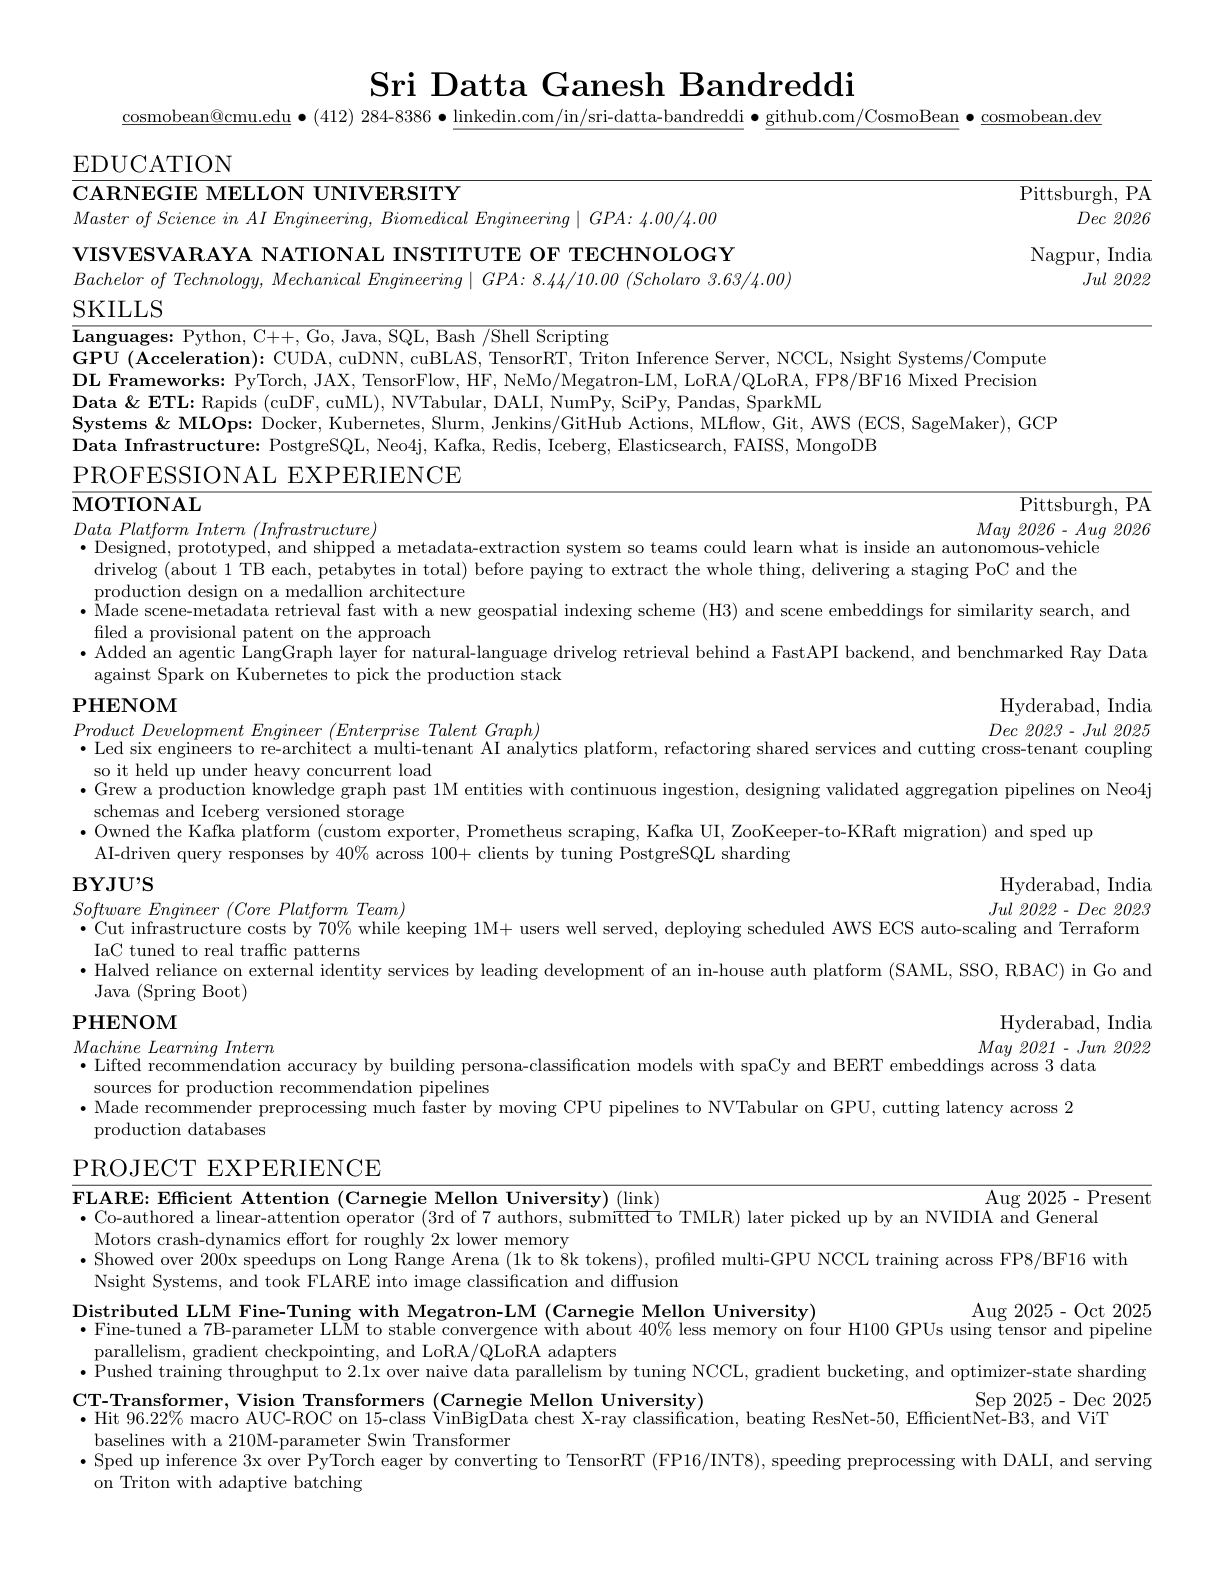
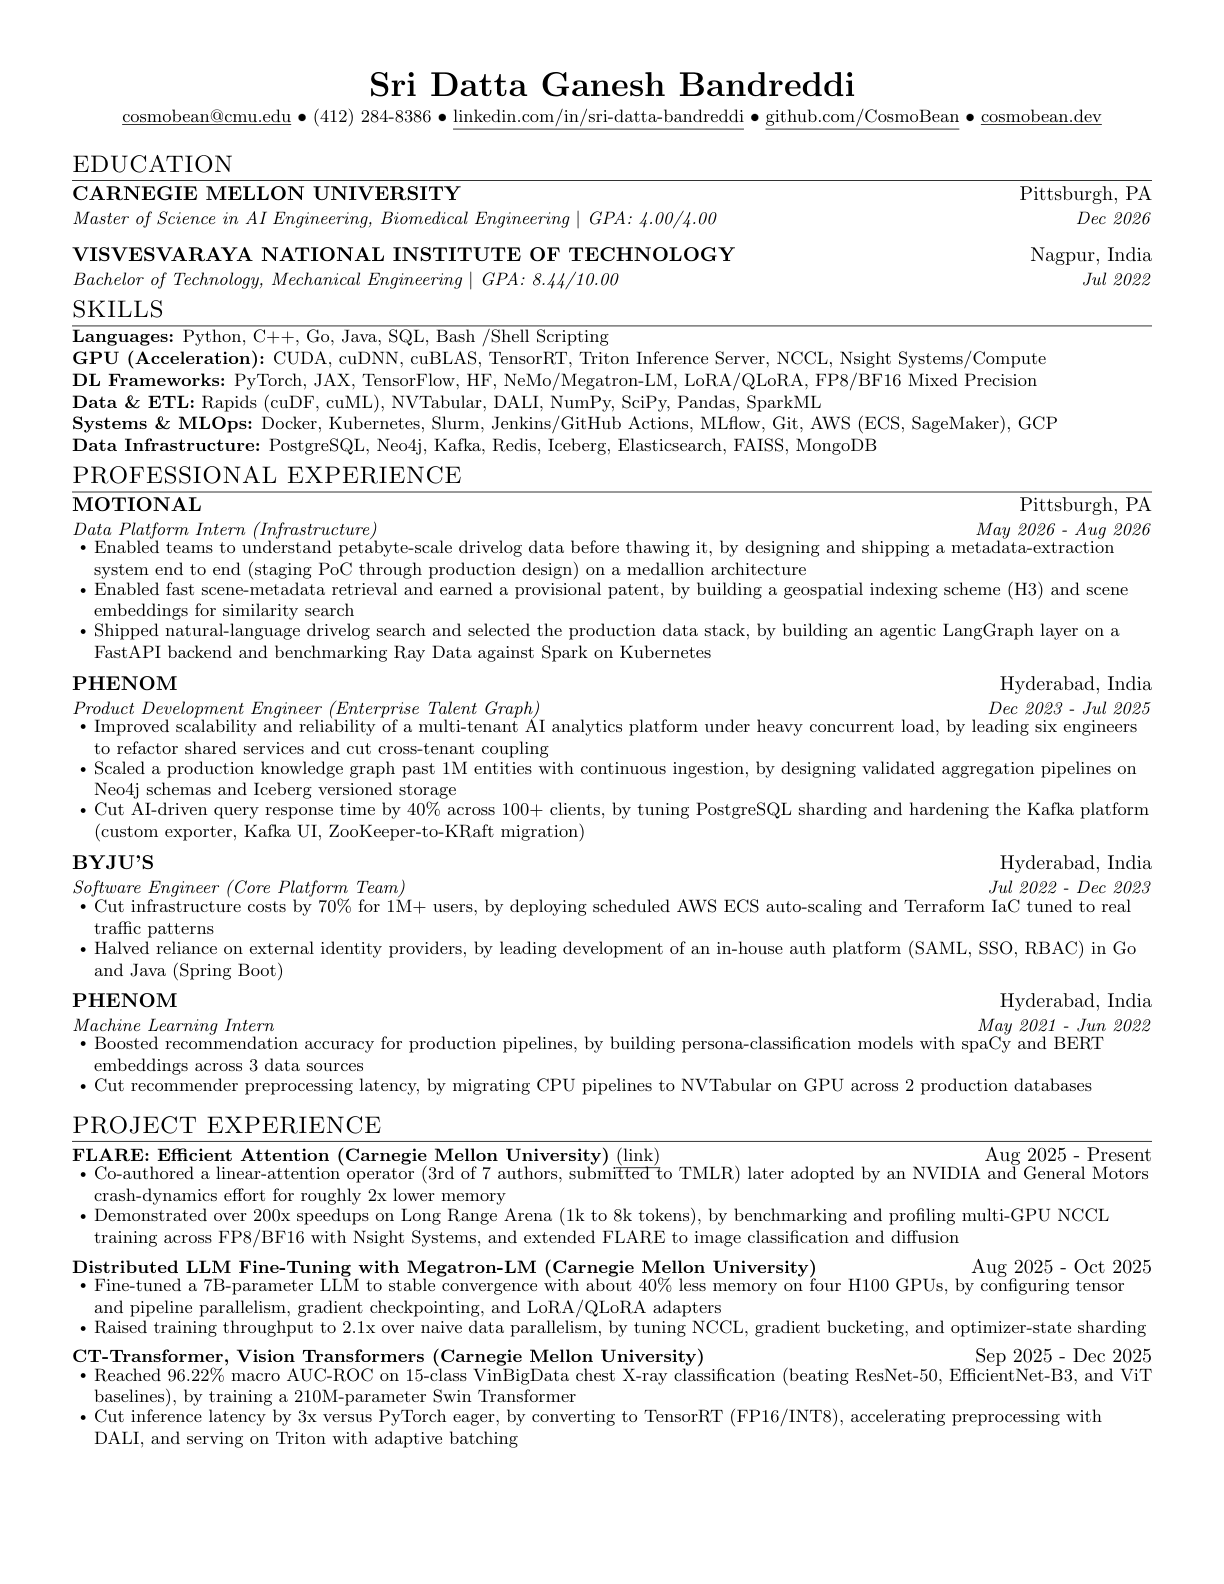
refine: XYZ-format bullets, drop Scholaro GPA, Motional petabyte-scale/thaw wording

Changed region(s): [[0.0621, 0.3403, 0.9314, 0.928], [0.5899, 0.1547, 0.6209, 0.1856]]

diff --git a/resume.tex b/resume.tex
@@ -145,7 +145,7 @@
     \vspace{\resumesmallgap}
     \resumeEducationSubheading
       {VISVESVARAYA NATIONAL INSTITUTE OF TECHNOLOGY}{Nagpur, India}
-      {Bachelor of Technology, Mechanical Engineering $|$ GPA: 8.44/10.00 (Scholaro 3.63/4.00)}{Jul 2022}
+      {Bachelor of Technology, Mechanical Engineering $|$ GPA: 8.44/10.00}{Jul 2022}
   \resumeSubHeadingListEnd
 
 %-----------SKILLS-----------
@@ -169,34 +169,34 @@
       {MOTIONAL}{Pittsburgh, PA}
       {Data Platform Intern (Infrastructure)}{May 2026 - Aug 2026}
       \resumeExperienceItemListStart
-        \resumeItem{Designed, prototyped, and shipped a metadata-extraction system so teams could learn what is inside an autonomous-vehicle drivelog (about 1 TB each, petabytes in total) before paying to extract the whole thing, delivering a staging PoC and the production design on a medallion architecture}
-        \resumeItem{Made scene-metadata retrieval fast with a new geospatial indexing scheme (H3) and scene embeddings for similarity search, and filed a provisional patent on the approach}
-        \resumeItem{Added an agentic LangGraph layer for natural-language drivelog retrieval behind a FastAPI backend, and benchmarked Ray Data against Spark on Kubernetes to pick the production stack}
+        \resumeItem{Enabled teams to understand petabyte-scale drivelog data before thawing it, by designing and shipping a metadata-extraction system end to end (staging PoC through production design) on a medallion architecture}
+        \resumeItem{Enabled fast scene-metadata retrieval and earned a provisional patent, by building a geospatial indexing scheme (H3) and scene embeddings for similarity search}
+        \resumeItem{Shipped natural-language drivelog search and selected the production data stack, by building an agentic LangGraph layer on a FastAPI backend and benchmarking Ray Data against Spark on Kubernetes}
       \resumeExperienceItemListEnd
 
     \resumeExperienceSubheading
       {PHENOM}{Hyderabad, India}
       {Product Development Engineer (Enterprise Talent Graph)}{Dec 2023 - Jul 2025}
       \resumeExperienceItemListStart
-        \resumeItem{Led six engineers to re-architect a multi-tenant AI analytics platform, refactoring shared services and cutting cross-tenant coupling so it held up under heavy concurrent load}
-        \resumeItem{Grew a production knowledge graph past 1M entities with continuous ingestion, designing validated aggregation pipelines on Neo4j schemas and Iceberg versioned storage}
-        \resumeItem{Owned the Kafka platform (custom exporter, Prometheus scraping, Kafka UI, ZooKeeper-to-KRaft migration) and sped up AI-driven query responses by 40\% across 100+ clients by tuning PostgreSQL sharding}
+        \resumeItem{Improved scalability and reliability of a multi-tenant AI analytics platform under heavy concurrent load, by leading six engineers to refactor shared services and cut cross-tenant coupling}
+        \resumeItem{Scaled a production knowledge graph past 1M entities with continuous ingestion, by designing validated aggregation pipelines on Neo4j schemas and Iceberg versioned storage}
+        \resumeItem{Cut AI-driven query response time by 40\% across 100+ clients, by tuning PostgreSQL sharding and hardening the Kafka platform (custom exporter, Kafka UI, ZooKeeper-to-KRaft migration)}
       \resumeExperienceItemListEnd
 
     \resumeExperienceSubheading
       {BYJU'S}{Hyderabad, India}
       {Software Engineer (Core Platform Team)}{Jul 2022 - Dec 2023}
       \resumeExperienceItemListStart
-        \resumeItem{Cut infrastructure costs by 70\% while keeping 1M+ users well served, deploying scheduled AWS ECS auto-scaling and Terraform IaC tuned to real traffic patterns}
-        \resumeItem{Halved reliance on external identity services by leading development of an in-house auth platform (SAML, SSO, RBAC) in Go and Java (Spring Boot)}
+        \resumeItem{Cut infrastructure costs by 70\% for 1M+ users, by deploying scheduled AWS ECS auto-scaling and Terraform IaC tuned to real traffic patterns}
+        \resumeItem{Halved reliance on external identity providers, by leading development of an in-house auth platform (SAML, SSO, RBAC) in Go and Java (Spring Boot)}
       \resumeExperienceItemListEnd
 
     \resumeExperienceSubheading
       {PHENOM}{Hyderabad, India}
       {Machine Learning Intern}{May 2021 - Jun 2022}
       \resumeExperienceItemListStart
-        \resumeItem{Lifted recommendation accuracy by building persona-classification models with spaCy and BERT embeddings across 3 data sources for production recommendation pipelines}
-        \resumeItem{Made recommender preprocessing much faster by moving CPU pipelines to NVTabular on GPU, cutting latency across 2 production databases}
+        \resumeItem{Boosted recommendation accuracy for production pipelines, by building persona-classification models with spaCy and BERT embeddings across 3 data sources}
+        \resumeItem{Cut recommender preprocessing latency, by migrating CPU pipelines to NVTabular on GPU across 2 production databases}
       \resumeExperienceItemListEnd
   \resumeSubHeadingListEnd
 
@@ -206,20 +206,20 @@
       \resumeProjectHeading
           {\textbf{FLARE: Efficient Attention (Carnegie Mellon University)} \href{https://arxiv.org/abs/2508.12594}{\underline{(link)}}}{Aug 2025 - Present}
           \resumeProjectItemListStart
-            \resumeItem{Co-authored a linear-attention operator (3rd of 7 authors, submitted to TMLR) later picked up by an NVIDIA and General Motors crash-dynamics effort for roughly 2x lower memory}
-            \resumeItem{Showed over 200x speedups on Long Range Arena (1k to 8k tokens), profiled multi-GPU NCCL training across FP8/BF16 with Nsight Systems, and took FLARE into image classification and diffusion}
+            \resumeItem{Co-authored a linear-attention operator (3rd of 7 authors, submitted to TMLR) later adopted by an NVIDIA and General Motors crash-dynamics effort for roughly 2x lower memory}
+            \resumeItem{Demonstrated over 200x speedups on Long Range Arena (1k to 8k tokens), by benchmarking and profiling multi-GPU NCCL training across FP8/BF16 with Nsight Systems, and extended FLARE to image classification and diffusion}
           \resumeProjectItemListEnd
       \resumeProjectHeading
           {\textbf{Distributed LLM Fine-Tuning with Megatron-LM (Carnegie Mellon University)}}{Aug 2025 - Oct 2025}
           \resumeProjectItemListStart
-            \resumeItem{Fine-tuned a 7B-parameter LLM to stable convergence with about 40\% less memory on four H100 GPUs using tensor and pipeline parallelism, gradient checkpointing, and LoRA/QLoRA adapters}
-            \resumeItem{Pushed training throughput to 2.1x over naive data parallelism by tuning NCCL, gradient bucketing, and optimizer-state sharding}
+            \resumeItem{Fine-tuned a 7B-parameter LLM to stable convergence with about 40\% less memory on four H100 GPUs, by configuring tensor and pipeline parallelism, gradient checkpointing, and LoRA/QLoRA adapters}
+            \resumeItem{Raised training throughput to 2.1x over naive data parallelism, by tuning NCCL, gradient bucketing, and optimizer-state sharding}
           \resumeProjectItemListEnd
       \resumeProjectHeading
           {\textbf{CT-Transformer, Vision Transformers (Carnegie Mellon University)}}{Sep 2025 - Dec 2025}
           \resumeProjectItemListStart
-            \resumeItem{Hit 96.22\% macro AUC-ROC on 15-class VinBigData chest X-ray classification, beating ResNet-50, EfficientNet-B3, and ViT baselines with a 210M-parameter Swin Transformer}
-            \resumeItem{Sped up inference 3x over PyTorch eager by converting to TensorRT (FP16/INT8), speeding preprocessing with DALI, and serving on Triton with adaptive batching}
+            \resumeItem{Reached 96.22\% macro AUC-ROC on 15-class VinBigData chest X-ray classification (beating ResNet-50, EfficientNet-B3, and ViT baselines), by training a 210M-parameter Swin Transformer}
+            \resumeItem{Cut inference latency by 3x versus PyTorch eager, by converting to TensorRT (FP16/INT8), accelerating preprocessing with DALI, and serving on Triton with adaptive batching}
           \resumeProjectItemListEnd
     \resumeSubHeadingListEnd
 
